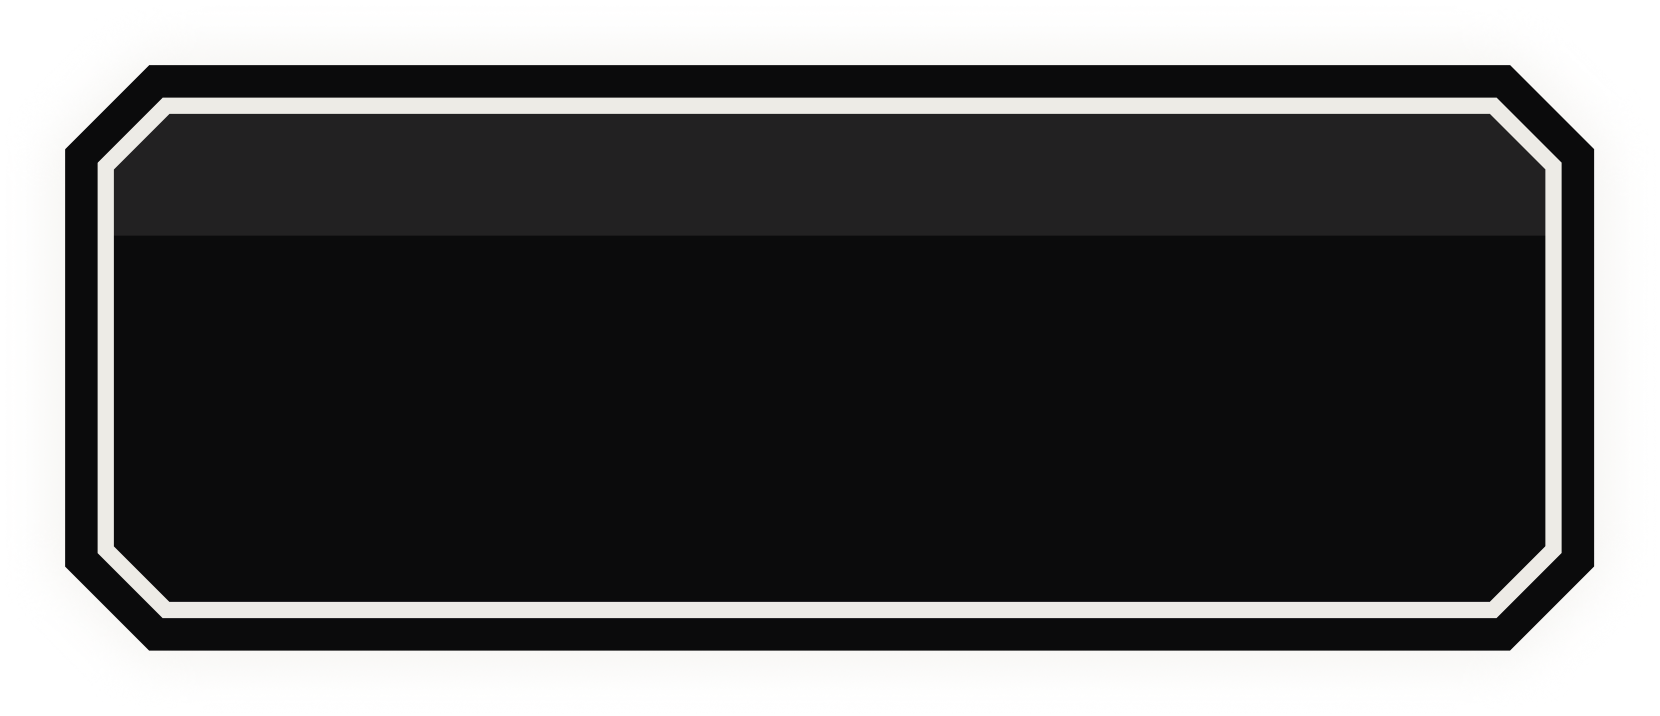
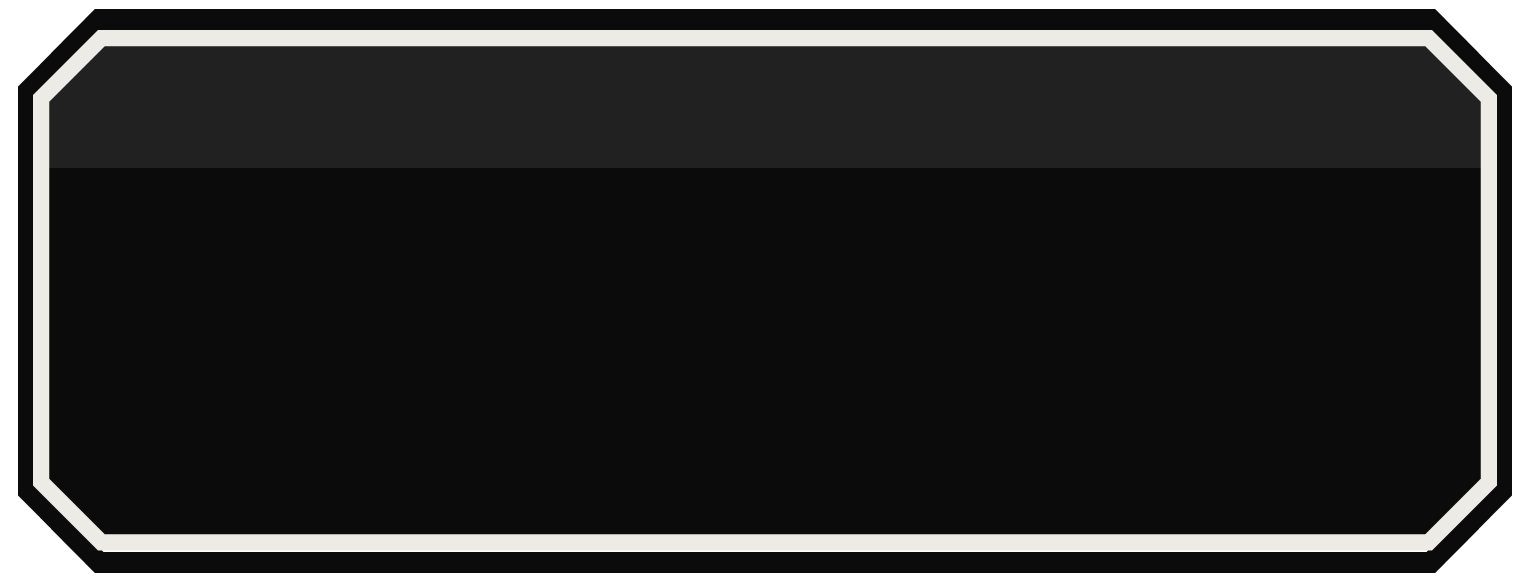
adding micro animation in level explanation page

Changed region(s): [[0.0, 0.0, 1.0, 0.9897]]

diff --git a/src/pages/levelOneExplanation.css b/src/pages/levelOneExplanation.css
@@ -24,6 +24,7 @@
     display: flex;
     flex-direction: column;
     align-self: flex-start;
+    margin-left: 220px;
 }
 
 .dialogueBox {
@@ -38,6 +39,21 @@
     gap: 24px;
     padding: 28px 48px;
     color: var(--primary_text);
+    filter: drop-shadow(0 0 21.689px #EDEBE6);
+    animation: glowPulse 2s ease-in-out infinite;
+}
+
+@keyframes glowPulse {
+    0% {
+        filter: drop-shadow(0 0 10px #EDEBE6);
+    }
+    50% {
+        filter: drop-shadow(0 0 30px #EDEBE6)
+                drop-shadow(0 0 32px #EDEBE6);
+    }
+    100% {
+        filter: drop-shadow(0 0 10px #EDEBE6);
+    }
 }
 
 .dialogueCharacter {

diff --git a/src/pages/levelMap.css b/src/pages/levelMap.css
@@ -32,9 +32,8 @@
 .levelMap h2 {
     align-self: center;
     color: var(--primary_bg);
-    -webkit-text-stroke-color: #9c9a96;
-    -webkit-text-stroke-width: 0.1px;
     font-size: 56px;
+    font-weight: 400;
     font-family: "CattleTrail";
 }
 
